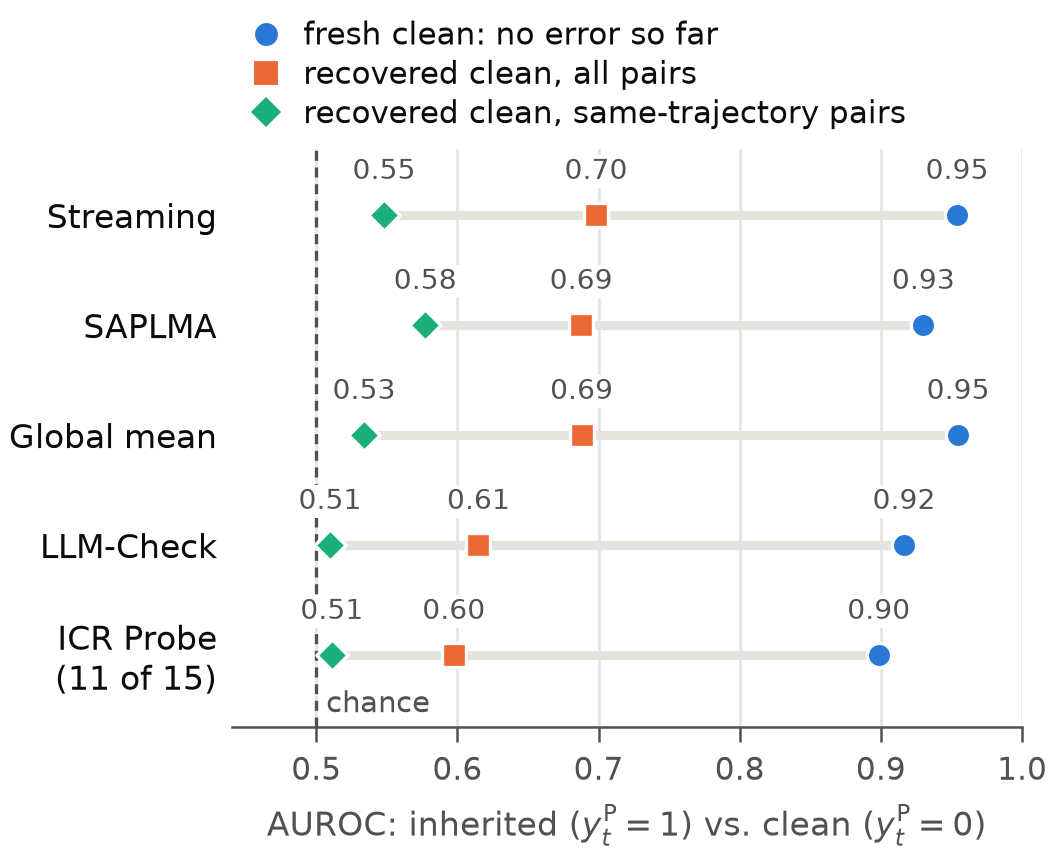
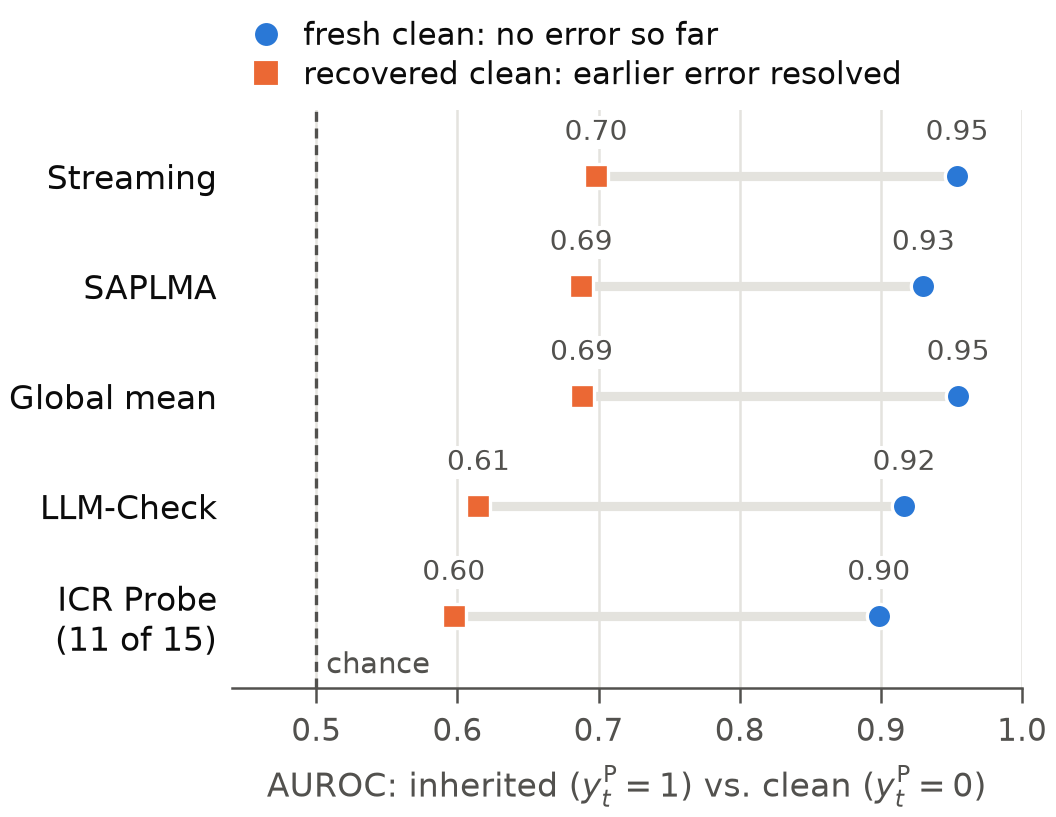
Focus the Prefix recovery diagnostic on inherited versus recovered
Drop the within-trajectory analysis from the recovery diagnostic README,
its figure and the stage summary, so the motivation rests on
inherited vs fresh against inherited vs recovered.

diff --git a/experiments/prefix_recovery_diagnostic_20261112/README.md b/experiments/prefix_recovery_diagnostic_20261112/README.md
@@ -16,7 +16,7 @@ A detector can approximate this with a weaker cue: whether any error has occurre
 
 ![Separation of unresolved errors from clean positions, per detector](result/figure.png)
 
-*Figure. AUROC of each detector's Prefix score on TEST. The positive class is always the same: positions with an inherited error ($`y^{\mathrm{S}}_t=0,\ y^{\mathrm{P}}_t=1`$). Circle: against fresh clean positions, which have no error so far in their trajectory. Square: against recovered clean positions, over all pairs, most of which join different trajectories. Diamond: the same two classes, but pairing only positions of the same trajectory; the AUROC is computed inside each trajectory and averaged over trajectories. Each value is the mean over generator/domain combinations (15 per detector, 11 for ICR Probe). The dashed line marks chance.*
+*Figure. AUROC of each detector's Prefix score on TEST. The positive class is always the same: positions with an inherited error ($`y^{\mathrm{S}}_t=0,\ y^{\mathrm{P}}_t=1`$). Circle: against fresh clean positions, which have no error so far in their trajectory. Square: against recovered clean positions, whose earlier error has been resolved. Each value is the mean over generator/domain combinations (15 per detector, 11 for ICR Probe). The dashed line marks chance.*
 
 ## Analysis settings
 
@@ -32,14 +32,6 @@ On TEST positions with $`y^{\mathrm{S}}_t=0`$, the positive class is **inherited
 - **gap:** AUROC_fresh − AUROC_rec.
 
 A detector that tracks $`\kappa_t`$ itself has a small gap. A detector that tracks only "an error occurred" has a high AUROC_fresh and a low AUROC_rec.
-
-Each AUROC is further split by where the two positions of a pair come from:
-
-- **between:** the inherited and the clean position belong to different trajectories.
-- **within:** both belong to the same trajectory. Within-trajectory fresh clean positions necessarily precede that trajectory's first error.
-- **within, trajectory mean:** the AUROC is computed inside each trajectory that contains both classes, then averaged with equal weight per trajectory.
-
-Each AUROC above is the pair-count-weighted mean of its between and within parts.
 
 | Setting | Value |
 |---|---|
@@ -88,29 +80,7 @@ Values are means over combinations.
 | Multi-hop | 0.635 | 0.291 |
 | Factuality | 0.631 | 0.236 |
 
-### 3. Within a trajectory, detectors mark the first error but not later corrections
-
-Errors and corrections alternate within trajectories: 94.9% of TEST inherited positions are preceded by at least one correction (Prefix 1→0) in their own trajectory. Whether an error is still unresolved is therefore mainly a within-trajectory question.
-
-Within-trajectory pairs, however, are only 2.1% of inherited–recovered pairs on average (at most 11.5%), so AUROC_rec above mostly measures between-trajectory pairs.
-
-| Detector | fresh between | fresh within | fresh within, traj. mean | rec between | rec within | rec within, traj. mean |
-|---|---:|---:|---:|---:|---:|---:|
-| Streaming | 0.954 | 0.968 | 0.959 | 0.697 | 0.629 | 0.548 |
-| SAPLMA | 0.930 | 0.933 | 0.892 | 0.688 | 0.608 | 0.577 |
-| Global mean | 0.955 | 0.978 | 0.971 | 0.690 | 0.589 | 0.534 |
-| LLM-Check | 0.916 | 0.950 | 0.978 | 0.613 | 0.588 | 0.510 |
-| ICR Probe | 0.899 | 0.894 | 0.912 | 0.595 | 0.549 | 0.511 |
-
-Values are means over combinations (15 per detector, 11 for ICR Probe).
-
-- Inside a trajectory, positions before the first error are separated from later inherited positions: within-trajectory fresh AUROC averages 0.947.
-- After the first error, inherited and recovered positions of the same trajectory are barely separated:
-  - within-trajectory recovered AUROC averages 0.595 (range 0.232–0.863);
-  - its trajectory mean averages 0.537, close to chance.
-- Within-trajectory recovered AUROC is below its between-trajectory value in 56 of 71 detector–combination pairs. The ≈ 0.66 of AUROC_rec therefore comes mainly from differences between trajectories.
-
-### 4. TEST and VAL agree
+### 3. TEST and VAL agree
 
 Means over the same 71 detector–combination pairs on both splits.
 
@@ -120,30 +90,26 @@ Means over the same 71 detector–combination pairs on both splits.
 | AUROC_rec | 0.732 | 0.661 |
 | gap | 0.226 | 0.272 |
 | gap CI above 0 | 69 / 71 | 67 / 71 |
-| rec within | 0.628 | 0.595 |
-| rec within, traj. mean | 0.534 | 0.537 |
 
 The pattern is the same and slightly stronger on TEST. The VAL files in `result/val/` were computed when ICR Probe covered 7 combinations; the VAL column here uses its 11 current combinations.
 
 ## Interpretation
 
-Existing Prefix detectors behave like detectors of "an error has occurred in the trajectory". They do not behave like estimators of $`\kappa_t`$, the probability that an earlier error is still unresolved. Within a trajectory, their scores rise at the first error but do not follow later corrections and renewed errors. What remains across trajectories reflects differences in their overall level.
+Existing Prefix detectors behave like detectors of "an error has occurred in the trajectory". They do not behave like estimators of $`\kappa_t`$, the probability that an earlier error is still unresolved.
 
-This suggests focusing on how to model $`\kappa_t`$ better, so that recovered positions can be distinguished from positions whose error is still unresolved. The within-trajectory recovered AUROC, especially its trajectory mean, measures this distinction more directly than AUROC_rec, which between-trajectory differences inflate.
+This suggests modelling $`\kappa_t`$ explicitly, so that recovered positions can be distinguished from positions whose error is still unresolved. AUROC_rec measures this distinction.
 
 ## Limitations
 
 - Recovered clean positions come from a limited number of TEST trajectories per combination: 15–201, and 155 for Qwen Logic. Intervals are wide where this number is small.
-- Fresh clean positions lie mostly early in trajectories, so AUROC_fresh may also reflect position. Within a trajectory, "after the first error" and "later in the trajectory" cannot be separated by this analysis. This does not affect the low AUROC_rec.
-- A near-chance within-trajectory AUROC may partly reflect how consistently Prefix labels are assigned over time within a trajectory. The present data cannot separate this from detector behaviour.
+- Fresh clean positions lie mostly early in trajectories, so AUROC_fresh may also reflect position. This does not affect the low AUROC_rec.
 
 ## Artifacts
 
 - [Configuration](config.json): definitions, scope and integrity checks.
 - [Recovery JSON](result/recovery.json): unrounded statistics, confidence intervals, position counts, pending cells and source-file hashes.
 - [Recovery CSV](result/recovery.csv): one row per detector, generator and domain.
-- [Within-trajectory JSON](result/within.json) and [CSV](result/within.csv): between, within and trajectory-mean AUROC for both negative types, with within-trajectory confidence intervals and pair counts.
-- [VAL version](result/val/): the same four files from the earlier VAL analysis.
+- [VAL version](result/val/): the recovery JSON and CSV from the earlier VAL analysis.
 - Figure: [PDF](result/figure.pdf), [PNG](result/figure.png).
 
 Only aggregate statistics and input-file identities are published. Labels, splits, predictions and detector weights are unchanged and not included.

diff --git a/theory/STAGE_SUMMARY_20261116.md b/theory/STAGE_SUMMARY_20261116.md
@@ -31,7 +31,7 @@ The relation links the three levels in one chain: introduction ($`\pi^{\mathrm{S
 |---|---|---|---|
 | [prefix_answer_endpoint](../experiments/prefix_answer_endpoint_20261110/README.md) (15,697 trajectories) | $`\alpha_1,\alpha_0`$ | 35.5% of Answers are correct after an erroneous final Prefix; 18.6% are wrong after a clean one; 25.2% disagree overall | The Answer is a lossy read-out of the final reasoning state, not a copy |
 | [step_prefix_composition](../experiments/step_prefix_composition_20261111/README.md) (15,697 trajectories, 1.45M positions) | $`\pi^{\mathrm{S}}`$ vs $`(1-\pi^{\mathrm{S}})\kappa`$ | 84.7% of Prefix positives are inherited; 72–88% in every combination | Most Prefix errors are earlier errors that remain unresolved; a Step label sees only the moment of introduction |
-| [prefix_recovery_diagnostic](../experiments/prefix_recovery_diagnostic_20261112/README.md) (five external detectors, TEST) | detectors' estimate of $`\kappa`$ | Inherited vs fresh ≈ 0.93 AUROC; inherited vs recovered ≈ 0.66; within-trajectory mean 0.51–0.58 | Errors also get resolved; detectors capture whether an error has occurred, not whether it is still unresolved |
+| [prefix_recovery_diagnostic](../experiments/prefix_recovery_diagnostic_20261112/README.md) (five external detectors, TEST) | detectors' estimate of $`\kappa`$ | Inherited vs fresh ≈ 0.93 AUROC; inherited vs recovered ≈ 0.66 | Errors also get resolved; detectors capture whether an error has occurred, not whether it is still unresolved |
 
 ## 4. What the task is
 
@@ -55,7 +55,7 @@ An error is introduced, stays unresolved or is resolved, and is finally read out
 
 ## 5. What earlier methods miss
 
-- **White-box hallucination detectors** (Streaming, SAPLMA, Global Mean, LLM-Check, ICR Probe) score the Prefix from a summary of the visible history. This summary retains evidence that an error has occurred but does not represent whether it was later resolved. Within a trajectory they separate the first error from earlier positions, but not unresolved errors from recovered positions.
+- **White-box hallucination detectors** (Streaming, SAPLMA, Global Mean, LLM-Check, ICR Probe) score the Prefix from a summary of the visible history. This summary retains evidence that an error has occurred but does not represent whether it was later resolved: they separate unresolved errors from positions before any error, but much less from recovered positions.
 - **Reasoning-error detectors** such as process reward models aggregate Step scores by minimum or product, or locate only the first error. Both are monotone in the history.
 - **Shared limitation.** The Prefix is effectively scored as whether an error has occurred. Since a re-endorsed error has $`y^{\mathrm{S}}_t=0`$, Step evidence alone can tell neither that an error has been resolved nor that it has become unresolved again.
 
@@ -75,7 +75,7 @@ The Step read-out and the Prefix term $`\kappa`$ are explored separately, each w
 
 **Prefix.** $`\kappa_t`$ answers one question: given no new error at step $`t`$, is an earlier error still unresolved? It has two targets, checked in this order.
 
-1. *Inherited versus recovered.* Within a trajectory, positions whose error is still unresolved must score above recovered positions, whose earlier error has been resolved. This is the within-trajectory recovery AUROC of the [recovery diagnostic](../experiments/prefix_recovery_diagnostic_20261112/README.md), on which every external detector is near chance.
+1. *Inherited versus recovered.* Positions whose error is still unresolved must score above recovered positions, whose earlier error has been resolved. This is AUROC_rec of the [recovery diagnostic](../experiments/prefix_recovery_diagnostic_20261112/README.md), about 0.66 for the external detectors.
 2. *Overall Prefix detection.* After composing $`\kappa_t`$ with the frozen Step read-out, the Prefix score must exceed every Prefix baseline.
 
 $`\kappa`$ is trained with the Prefix cross-entropy of the composed score on all positions, with no gradient into the Step read-out. This matches inference, where $`\kappa_t`$ is also used at positions whose new error the Step read-out is unsure about.
@@ -87,6 +87,6 @@ $`\kappa`$ is trained with the Prefix cross-entropy of the composed score on all
 - One data pipeline and one set of splits; each line saves its scores for every position so that the lines can be composed without retraining.
 - Design choices use VAL only. A finalized design is evaluated once on TEST.
 - Several seeds per configuration; differences are judged against seed variation and trajectory-bootstrap intervals.
-- Prefix results are reported overall, by position type (new, inherited, recovered, fresh) and within trajectories.
+- Prefix results are reported overall and by position type (new, inherited, recovered, fresh).
 
 **Merge point.** When the three lines are finalized, the full chain is composed from our own Step, Prefix and Answer parts and compared with the baselines on all three levels. A jointly fine-tuned version is run once as an ablation.
